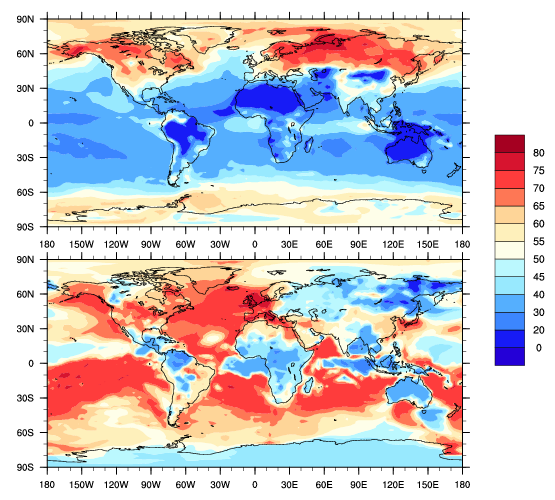
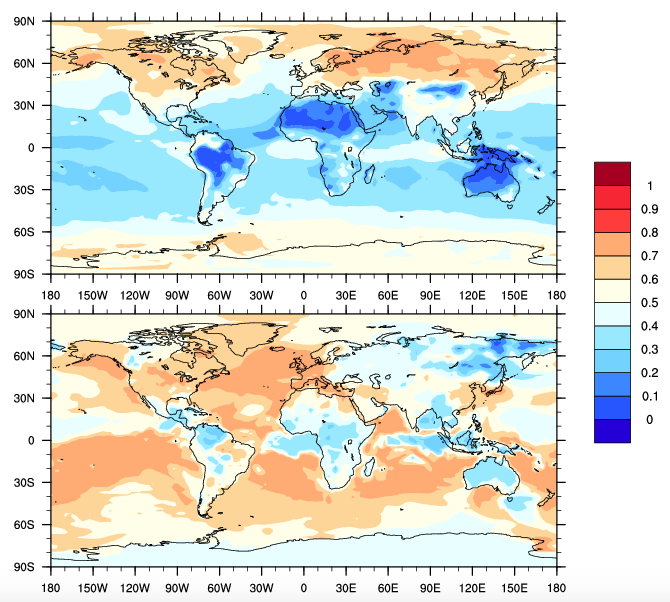
BC mass fraction observed by SP2 measurement (after first modification)

diff --git a/SP2/mass frac.tex b/SP2/mass frac.tex
@@ -113,7 +113,6 @@ where $D_{\text{core}}$ is the mean diameter of BC core,$D_{\text{mixed}}$ is th
 
  
 \section{Compute Volume Fraction Corresponding to Lognormal Distribution}
-
 The CDF of number distribution in the size range between $d_{1}$ and $d_{2}$ is:
 \begin{align*}
 N(d_{1}, d_{2}) = \frac{1}{\text{ln}\sigma_{\text{g}}\sqrt{2\pi}}\int_{d_{1}}^{d_{2}}e^-\frac{(\text{ln}r - \text{ln}r_{g})^2}{2\text{ln}^2\sigma_{\text{g}}}\text{d}(\text{ln}r),
@@ -122,12 +121,12 @@ where $r_{g}$ is mean geometric diameter (extracted from model, varying temporal
 
 \noindent The mean volume is proportional to function of the form:
 \begin{align*}
-N(d_{1}, d_{2}) &= \frac{1}{\text{ln}\sigma_{\text{g}}\sqrt{2\pi}}\int_{d_{1}}^{d_{2}}r^3e^-\frac{(\text{ln}r - \text{ln}r_{g})^2}{2\text{ln}^2\sigma_{\text{g}}}\text{d}(\text{ln}r)  \\
+V(d_{1}, d_{2}) &= \frac{1}{\text{ln}\sigma_{\text{g}}\sqrt{2\pi}}\int_{d_{1}}^{d_{2}}r^3e^-\frac{(\text{ln}r - \text{ln}r_{g})^2}{2\text{ln}^2\sigma_{\text{g}}}\text{d}(\text{ln}r)  \\
 &=\frac{e^{\frac{k^2}{2}\text{ln}^2\sigma_{g}+k\text{ln}r_{g}}}{\text{ln}\sigma_{\text{g}}\sqrt{2\pi}}\int_{d_{1}}^{d_{2}}r^3e^-\frac{(\text{ln}r - \text{ln}r_{\text{gv}})^2}{2\text{ln}^2\sigma_{\text{g}}}\text{d}(\text{ln}r),
 \end{align*}
 where the volume mean diameter is of the form $\text{lnr}_{\text{gv}} = \text{lnr}_{\text{g}} + 3\text{ln}\sigma_{\text{g}}$.
 
-\noindent So BC mass fraction (in the size range between 90--400~nm) in a mode (Figure~\ref{fig_P1}) is derived by:
+\noindent So BC mass fraction (in the size range between 90--400~nm) in a mode is derived by:
 
 \begin{align*}
 F(\text{d}_{1}, \text{d}_{2}) &= \frac{\frac{1}{\text{ln}\sigma_{\text{g}}\sqrt{2\pi}}\int_{d_{1}}^{d_{2}}r^3e^-\frac{(\text{ln}r - \text{ln}r_{g})^2}{2\text{ln}^2\sigma_{\text{g}}}\text{d}(\text{ln}r)}
@@ -137,10 +136,23 @@ F(\text{d}_{1}, \text{d}_{2}) &= \frac{\frac{1}{\text{ln}\sigma_{\text{g}}\sqrt{
 &=\frac{1}{2}[\text{erf}(\frac{\text{ln}d_{2} - \text{ln}r_{\text{gv}}}{\sqrt{2}\text{ln}\sigma})-\text{erf}(\frac{\text{ln}d_{1} - \text{ln}r_{\text{gv}}}{\sqrt{2}\text{ln}\sigma})],
 \end{align*}
 
+
+
+
+\bigskip
+\bigskip
+\bigskip
+\begin{figure}[!h] 
+	\begin{center}
+		\includegraphics[width = 0.6\textwidth]{Rplot01}
+		\caption[]{\label{fig_P1}BC mass in primary carbon mode (top) and in accumulation mode (bottom), for surface layer, March.}
+	\end{center}
+\end{figure}
+
 \begin{figure}[!h] 
 	\begin{center}
 		\includegraphics[width = 0.6\textwidth]{Rplot02}
-		\caption[]{\label{fig_P1} BC mass fraction ($\%$) (between 90 and 400~nm) in primary carbon mode (top) and in accumulation mode (bottom), for surface layer, March.}
+		\caption[]{\label{fig_P2} BC mass fraction ($\%$) (between 90 and 400~nm) in primary carbon mode (top) and in accumulation mode (bottom), for surface layer, March.}
 	\end{center}
 \end{figure}
 
@@ -152,25 +164,21 @@ f_{\text{pc}} = \frac{F_{\text{pc}}(d_{1}, d_{2})M_{\text{pc}}}{F_{\text{accu}}(
 \end{align*}
 \[f_{\text{accu}} + f_{\text{pc}} = 1,\]
 
-\noindent where $f_{\text{accu}}$ is the fraction of BC mass in accumulation mode, $f_{\text{pc}}$ is the fraction of BC mass in primary carbon mode (Figure~\ref{fig_P2}), $M_{\text{accu}}$ and $M_{\text{pc}}$ are BC mass in accumulation mode and primary carbon mode respectively.
+\noindent where $f_{\text{accu}}$ is the fraction of BC mass in accumulation mode, $f_{\text{pc}}$ is the fraction of BC mass in primary carbon mode, $M_{\text{accu}}$ and $M_{\text{pc}}$ are BC mass in accumulation mode and primary carbon mode respectively.
 
-\noindent In figure 2, 
+\noindent BC mass fraction ($F_{\text{pc}}(90~nm, 400~nm)$ and $F_{\text{accu}}(90~nm, 400~nm)$) are shown in Figure~\ref{fig_P2}, for primary carbon mode (upper panel) and for accumulation mode (lower panel). At the surface, SP2 would see most of BC in primary carbon mode at high latitudes ($\textgreater$60$\%$). At low and middle latitudes, this portion is lower than 40$\%$ for most regions. SP2 can capture most of BC in accumulation mode when it is distant from source regions (e.g., throughout the oceans). We also observe that little BC could be seen in either mode for Central Africa. Fractions in two panels should not add up to 1.
 
-\noindent Figure~\ref{fig_P3} shows monthly BC mass concentration for March.
+\noindent $f_{\text{pc}}$ and $f_{\text{accu}}$ are shown in the upper and lower panels in Figure~\ref{fig_P3} respectively. They indicate the mixing state of BC particles that can be captured by SP2 measurements. Most of them ($\textgreater$60$\%$) are internally mixed in low and middle latitudes, and are externally mixed in high latitudes. The fraction can vary spatially for Arctic region (between 40$\%$ and 70$\%$), which should be taken into consideration when comparing modeled BC with SP2 measurements. Fractions in two panels should add up to 1. 
+
 
 \begin{figure}[!h] 
 	\begin{center}
 		\includegraphics[width = 0.6\textwidth]{Rplot03}
-		\caption[]{\label{fig_P2} Ratio of BC mass ($\%$) within SP2 size range to total BC mass within SP2 size range, in primary carbon mode (top) and accumulation mode (bottom), for surface layer, March.}
+		\caption[]{\label{fig_P3} Ratio of BC mass ($\%$) within SP2 size range to total BC mass within SP2 size range, in primary carbon mode (top) and accumulation mode (bottom), for surface layer, March.}
 	\end{center}
 \end{figure}
 
-\begin{figure}[!h] 
-	\begin{center}
-		\includegraphics[width = 0.6\textwidth]{Rplot04}
-		\caption[]{\label{fig_P3}BC mass concentration, for surface layer, March.}
-	\end{center}
-\end{figure}
+
 
 
 
@@ -179,9 +187,10 @@ f_{\text{pc}} = \frac{F_{\text{pc}}(d_{1}, d_{2})M_{\text{pc}}}{F_{\text{accu}}(
 
 C. L. Reddington, G. McMeeking, G. W. Mann1, H. Coe, M. G. Frontoso, D. Liu, M. Flynn, D. V. Spracklen, and K. S. Carslaw: The mass and number size distributions of black carbon aerosol over Europe, Atmos. Chem. Phys., 13, 4917-4939, doi:10.5194/acp-13-4917-2013, 2013
 
+Liu, X., Easter, R. C., Ghan, S. J., Zaveri, R., Rasch, P., Shi, X., Lamarque, J.-F., Gettel- man, A., Morrison, H., Vitt, F., Conley, A., Park, S., Neale, R., Hannay, C., Ekman, A. M. L., Hess, P., Mahowald, N., Collins, W., Iacono, M. J., Bretherton, C. S., Flanner, M. G., and Mitchell, D.: Toward a minimal representation of aerosols in climate models: description and evaluation in the Community Atmosphere Model CAM5, Geosci. Model Dev., 5, 709–739, doi:10.5194/gmd-5-709-2012, 2012.
+
 Schwarz, J. P., Spackman, J. R., Gao, R. S., Perring, a. E., Cross, E., Onasch, T. B., Ahern, a., Wrobel, W., Davidovits, P., Olfert, J., Dubey, M. K., Mazzoleni, C., and Fahey, D. W.: The Detection Efficiency of the Single Particle Soot Photometer, Aerosol Sci. Technol., 44, 612–628, doi:10.1080/02786826. 2010.481298, 2010a.
 
-Liu, X., Easter, R. C., Ghan, S. J., Zaveri, R., Rasch, P., Shi, X., Lamarque, J.-F., Gettel- man, A., Morrison, H., Vitt, F., Conley, A., Park, S., Neale, R., Hannay, C., Ekman, A. M. L., Hess, P., Mahowald, N., Collins, W., Iacono, M. J., Bretherton, C. S., Flanner, M. G., and Mitchell, D.: Toward a minimal representation of aerosols in climate models: description and evaluation in the Community Atmosphere Model CAM5, Geosci. Model Dev., 5, 709–739, doi:10.5194/gmd-5-709-2012, 2012.
 
 
 
